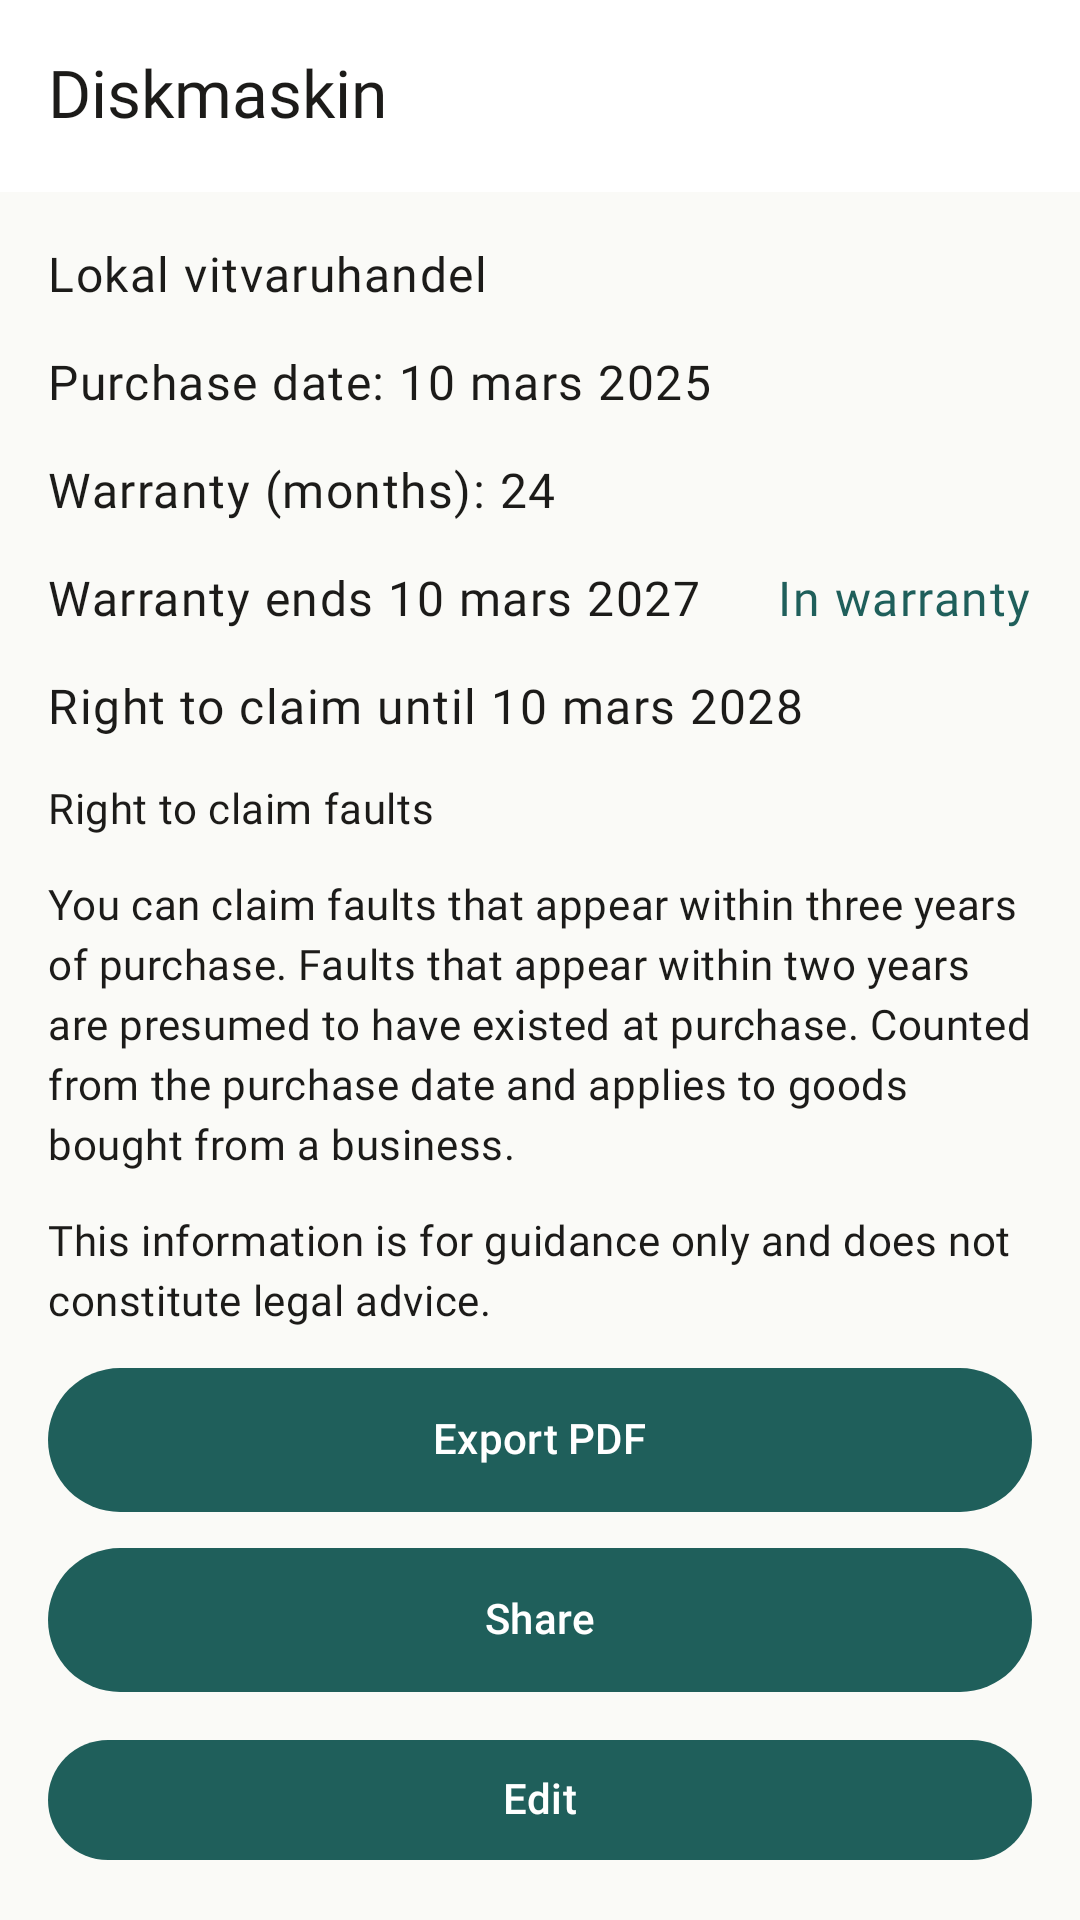
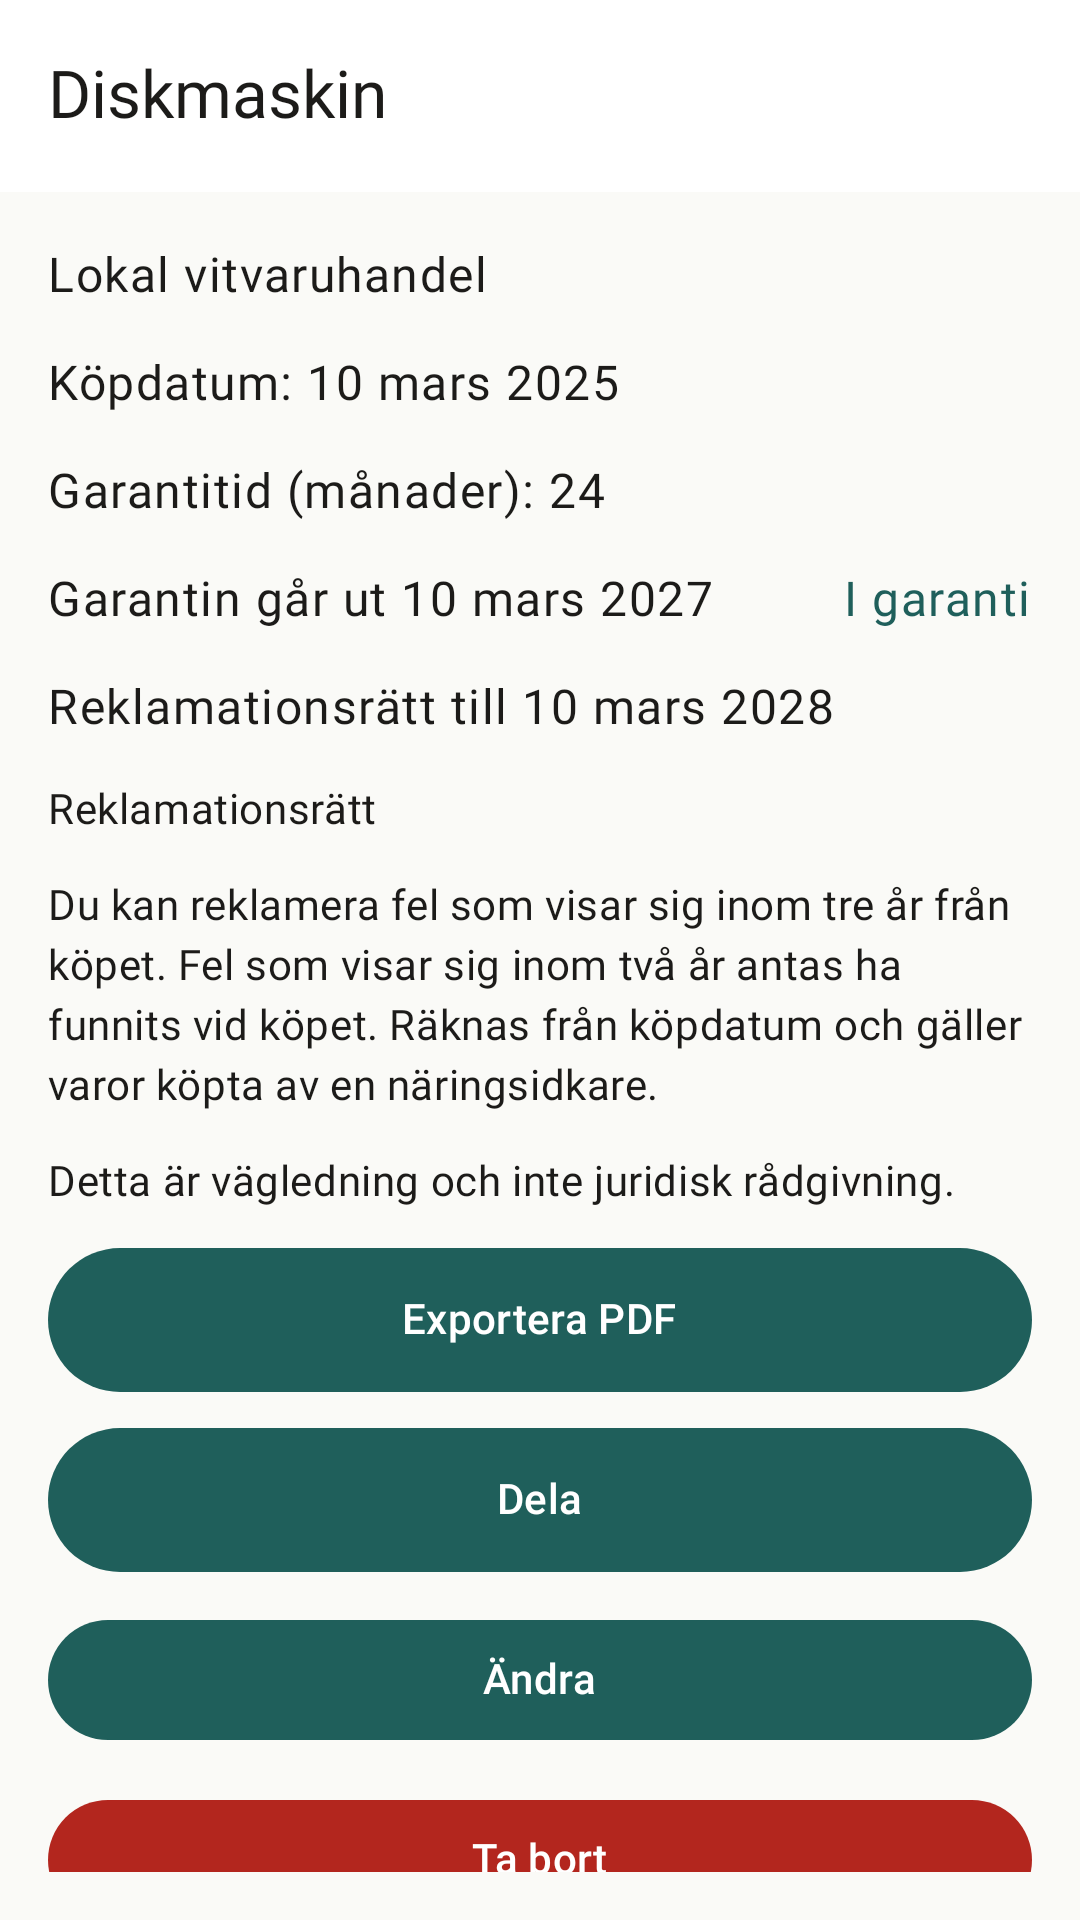
Rättelse: svenska butiksbilder och funktionsgrafik per språk
Sätt locale i Robolectric-qualifiers så setQualifiers inte nollställer
språket. Lägg till skarmQualifiersLaddarRattSprak, generera om skärmbilder,
funktionsgrafik-sv/en från strängresurser, och dokumentera BILLING i data-safety.

diff --git a/garantivalvet/src/test/kotlin/se/tmconnect/garantivalvet/butik/ButikSkarmbilderTest.kt b/garantivalvet/src/test/kotlin/se/tmconnect/garantivalvet/butik/ButikSkarmbilderTest.kt
@@ -23,6 +23,7 @@ import androidx.test.core.app.ApplicationProvider
 import com.github.takahirom.roborazzi.captureRoboImage
 import java.time.LocalDate
 import java.util.Locale
+import org.junit.Assert.assertEquals
 import org.junit.Before
 import org.junit.Test
 import org.junit.runner.RunWith
@@ -106,6 +107,64 @@ abstract class ButikSkarmbilderBas {
         }
         ShadowLooper.idleMainLooper()
         activity.window.decorView.captureRoboImage("butik/skarmbilder/${sprakKatalog()}/$filnamn")
+    }
+
+    private fun captureFunktionsgrafik() {
+        RuntimeEnvironment.setQualifiers(funktionsgrafikQualifiers())
+        val activity = Robolectric.buildActivity(ButikRoboActivity::class.java)
+            .setup()
+            .get()
+        activity.setContent {
+            AppfabrikTema(morkt = false) {
+                Box(
+                    modifier = Modifier
+                        .size(1024.dp, 500.dp)
+                        .background(AppfabrikFarger.LjusPrimar),
+                    contentAlignment = Alignment.CenterStart,
+                ) {
+                    Column(modifier = Modifier.padding(horizontal = 64.dp)) {
+                        Text(
+                            text = stringResource(R.string.app_name),
+                            style = MaterialTheme.typography.displaySmall,
+                            color = Color.White,
+                        )
+                        Text(
+                            text = stringResource(R.string.pro_forklaring),
+                            style = MaterialTheme.typography.titleMedium,
+                            color = Color.White.copy(alpha = 0.92f),
+                            modifier = Modifier.padding(top = 12.dp),
+                        )
+                    }
+                }
+            }
+        }
+        ShadowLooper.idleMainLooper()
+        activity.window.decorView.captureRoboImage("butik/funktionsgrafik-${sprakKatalog()}.png")
+    }
+
+    protected abstract fun funktionsgrafikQualifiers(): String
+
+    @Test
+    fun skarmQualifiersLaddarRattSprak() {
+        RuntimeEnvironment.setQualifiers(skarmQualifiers())
+        val app = ApplicationProvider.getApplicationContext<Application>()
+        val appNamn = app.getString(R.string.app_name)
+        val laggTill = app.getString(R.string.lagg_till)
+        when (sprakKatalog()) {
+            "sv" -> {
+                assertEquals("Garantivalvet", appNamn)
+                assertEquals("Lägg till", laggTill)
+            }
+            "en" -> {
+                assertEquals("Warranty Vault", appNamn)
+                assertEquals("Add", laggTill)
+            }
+        }
+    }
+
+    @Test
+    fun funktionsgrafik() {
+        captureFunktionsgrafik()
     }
 
     @Test
@@ -198,7 +257,9 @@ class ButikSkarmbilderSvTest : ButikSkarmbilderBas() {
 
     override fun localeTag() = "sv-SE"
 
-    override fun skarmQualifiers() = "w360dp-h640dp-port-xxhdpi"
+    override fun skarmQualifiers() = "sv-rSE-w360dp-h640dp-port-xxhdpi"
+
+    override fun funktionsgrafikQualifiers() = "sv-rSE-w1024dp-h500dp-mdpi"
 }
 
 @Config(application = Application::class, sdk = [35])
@@ -207,7 +268,9 @@ class ButikSkarmbilderEnTest : ButikSkarmbilderBas() {
 
     override fun localeTag() = "en-GB"
 
-    override fun skarmQualifiers() = "w360dp-h640dp-port-xxhdpi"
+    override fun skarmQualifiers() = "en-rGB-w360dp-h640dp-port-xxhdpi"
+
+    override fun funktionsgrafikQualifiers() = "en-rGB-w1024dp-h500dp-mdpi"
 }
 
 @RunWith(RobolectricTestRunner::class)
@@ -215,40 +278,6 @@ class ButikSkarmbilderEnTest : ButikSkarmbilderBas() {
 @LooperMode(LooperMode.Mode.PAUSED)
 @Config(application = Application::class, sdk = [35])
 class ButikPlayTillgangarTest {
-    @Test
-    fun funktionsgrafik() {
-        RuntimeEnvironment.setQualifiers("w1024dp-h500dp-mdpi")
-        val activity = Robolectric.buildActivity(ButikRoboActivity::class.java)
-            .setup()
-            .get()
-        activity.setContent {
-            AppfabrikTema(morkt = false) {
-                Box(
-                    modifier = Modifier
-                        .size(1024.dp, 500.dp)
-                        .background(AppfabrikFarger.LjusPrimar),
-                    contentAlignment = Alignment.CenterStart,
-                ) {
-                    Column(modifier = Modifier.padding(horizontal = 64.dp)) {
-                        Text(
-                            text = stringResource(R.string.app_name),
-                            style = MaterialTheme.typography.displaySmall,
-                            color = Color.White,
-                        )
-                        Text(
-                            text = "Kvitton, garantier och reklamationsfrister – helt offline",
-                            style = MaterialTheme.typography.titleMedium,
-                            color = Color.White.copy(alpha = 0.92f),
-                            modifier = Modifier.padding(top = 12.dp),
-                        )
-                    }
-                }
-            }
-        }
-        ShadowLooper.idleMainLooper()
-        activity.window.decorView.captureRoboImage("butik/funktionsgrafik.png")
-    }
-
     @Test
     fun ikon512() {
         RuntimeEnvironment.setQualifiers("w512dp-h512dp-mdpi")

diff --git a/garantivalvet/butik/README.md b/garantivalvet/butik/README.md
@@ -17,7 +17,8 @@ Teckengränser och URL-förbud kontrolleras av `ButikTexterTest`.
 |------------|---------|----------|
 | `skarmbilder/sv/` | 1080 × 1920 (porträtt) | Lista, detalj med reklamationsinfo, formulär, Pro-dialog |
 | `skarmbilder/en/` | 1080 × 1920 | Samma skärmar på engelska |
-| `funktionsgrafik.png` | 1024 × 500 | Appnamn och kort tagline i appens tema |
+| `funktionsgrafik-sv.png` | 1024 × 500 | Appnamn och kort rad på svenska (från strängresurser) |
+| `funktionsgrafik-en.png` | 1024 × 500 | Appnamn och kort rad på engelska |
 | `ikon-512.png` | 512 × 512 | Butiksikon renderad från launcher-grafik |
 
 Alla skärmbilder använder påhittade köp (t.ex. diskmaskin, mobiltelefon, cykel).
@@ -34,7 +35,7 @@ Kör från repots rot (kräver Android SDK enligt CI):
 ./gradlew :garantivalvet:recordRoborazziDebug
 ```
 
-Det kör Roborazzi-testerna i `:garantivalvet` och skriver PNG-filer till denna mapp (`butik/skarmbilder/`, plus `funktionsgrafik.png` och `ikon-512.png` i `butik/`).
+Det kör Roborazzi-testerna i `:garantivalvet` och skriver PNG-filer till denna mapp (`butik/skarmbilder/`, plus `funktionsgrafik-sv.png`, `funktionsgrafik-en.png` och `ikon-512.png` i `butik/`).
 
 Verifiera att bilderna är oförändade:
 

diff --git a/garantivalvet/butik/data-safety.md b/garantivalvet/butik/data-safety.md
@@ -58,6 +58,7 @@ Följande lagras **på enheten** för appens funktion. Det ska **inte** markeras
 | Behörighet | Varför | Data safety-koppling |
 |------------|--------|----------------------|
 | `POST_NOTIFICATIONS` | Lokala notiser om garanti/reklamation enligt användarens val | Notiser genereras på enheten; inget skickas till utvecklaren |
+| `com.android.vending.BILLING` | Finns i **sammanslaget manifest** (`processDebugMainManifest`); kommer från Google Play Billing Library (`billing-ktx` i `:karna`), inte från appmodulens egen manifestfil | Play Store på enheten hanterar köp; utvecklaren tar inte emot betalningsuppgifter. Se avsnitt 6 |
 | (ingen `INTERNET` i slutlig manifest) | Medvetet borttagen | Stödjer påståendet att appen inte använder nätverk för egen datainsamling |
 
 Kamera och lagring används via **systemintents** (fotoväljare/kamera) enligt projektregler, inte som breda lagringsbehörigheter i manifest.
